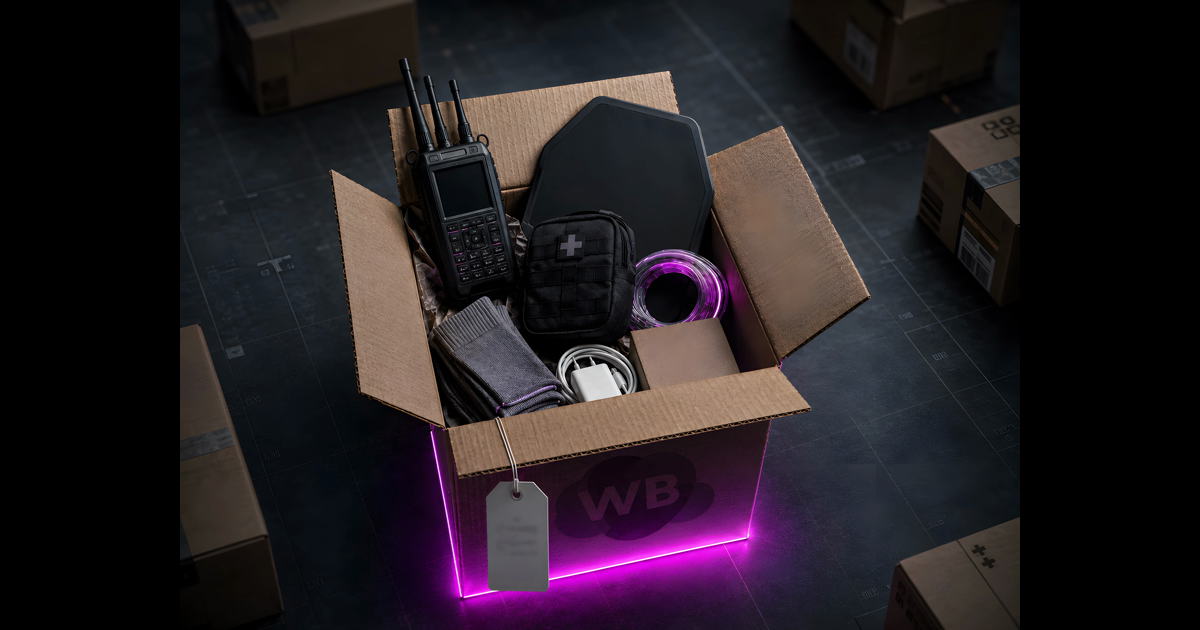
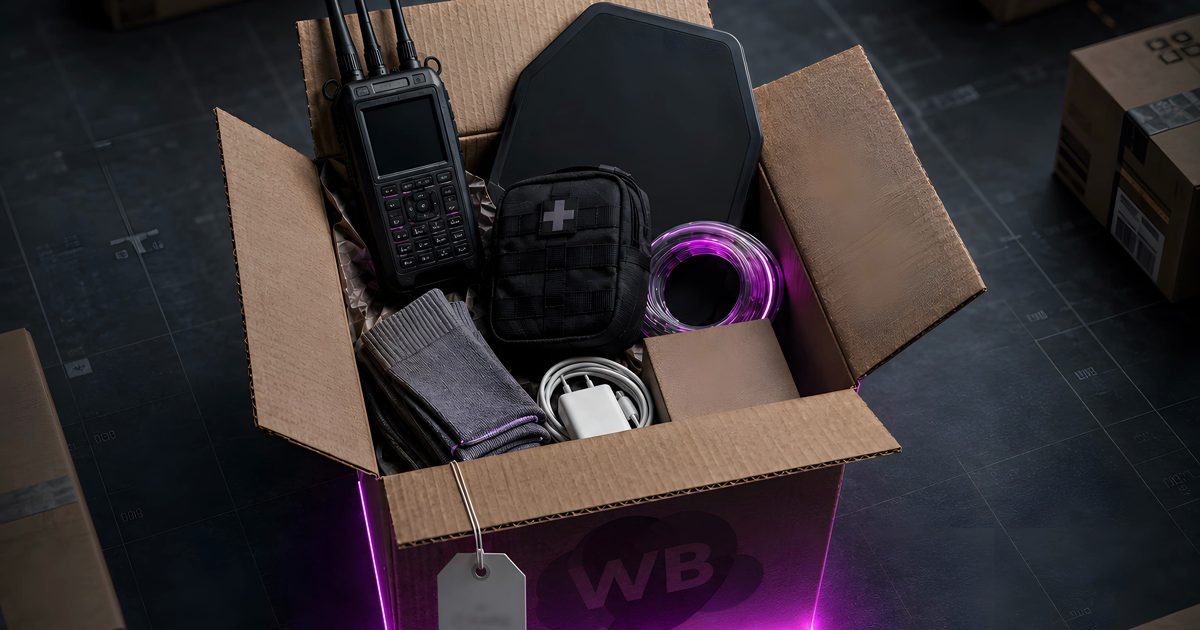
fix(blog): fill wb-dual-use previews

diff --git a/components/articles.tsx b/components/articles.tsx
@@ -67,7 +67,7 @@ export const ARTICLES: Article[] = [
     href: "/blog/wb-dual-use",
     slug: "wb-dual-use",
     img: "/blog/wb-dual-use/cover.webp",
-    coverBg: "#060607",
+    imgPosition: "center 50%",
     rubric: "Исследование",
     title: "Почему склады Wildberries оказались под ударом: что я нашёл в 7 500 категориях",
     subtitle:
